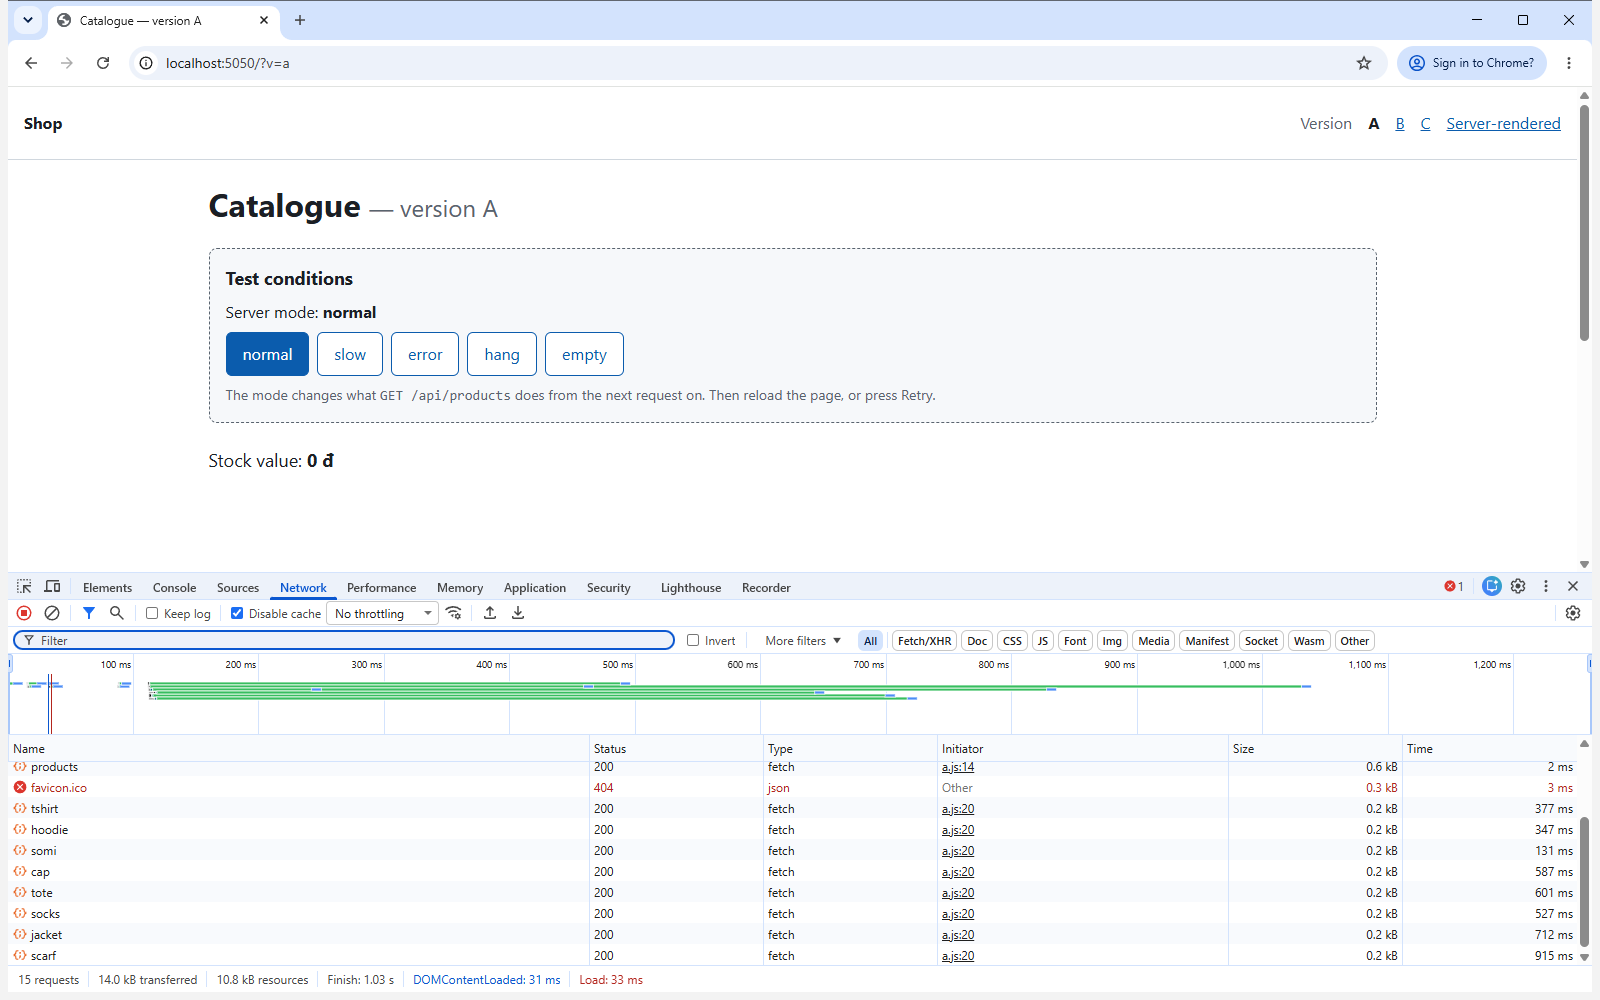
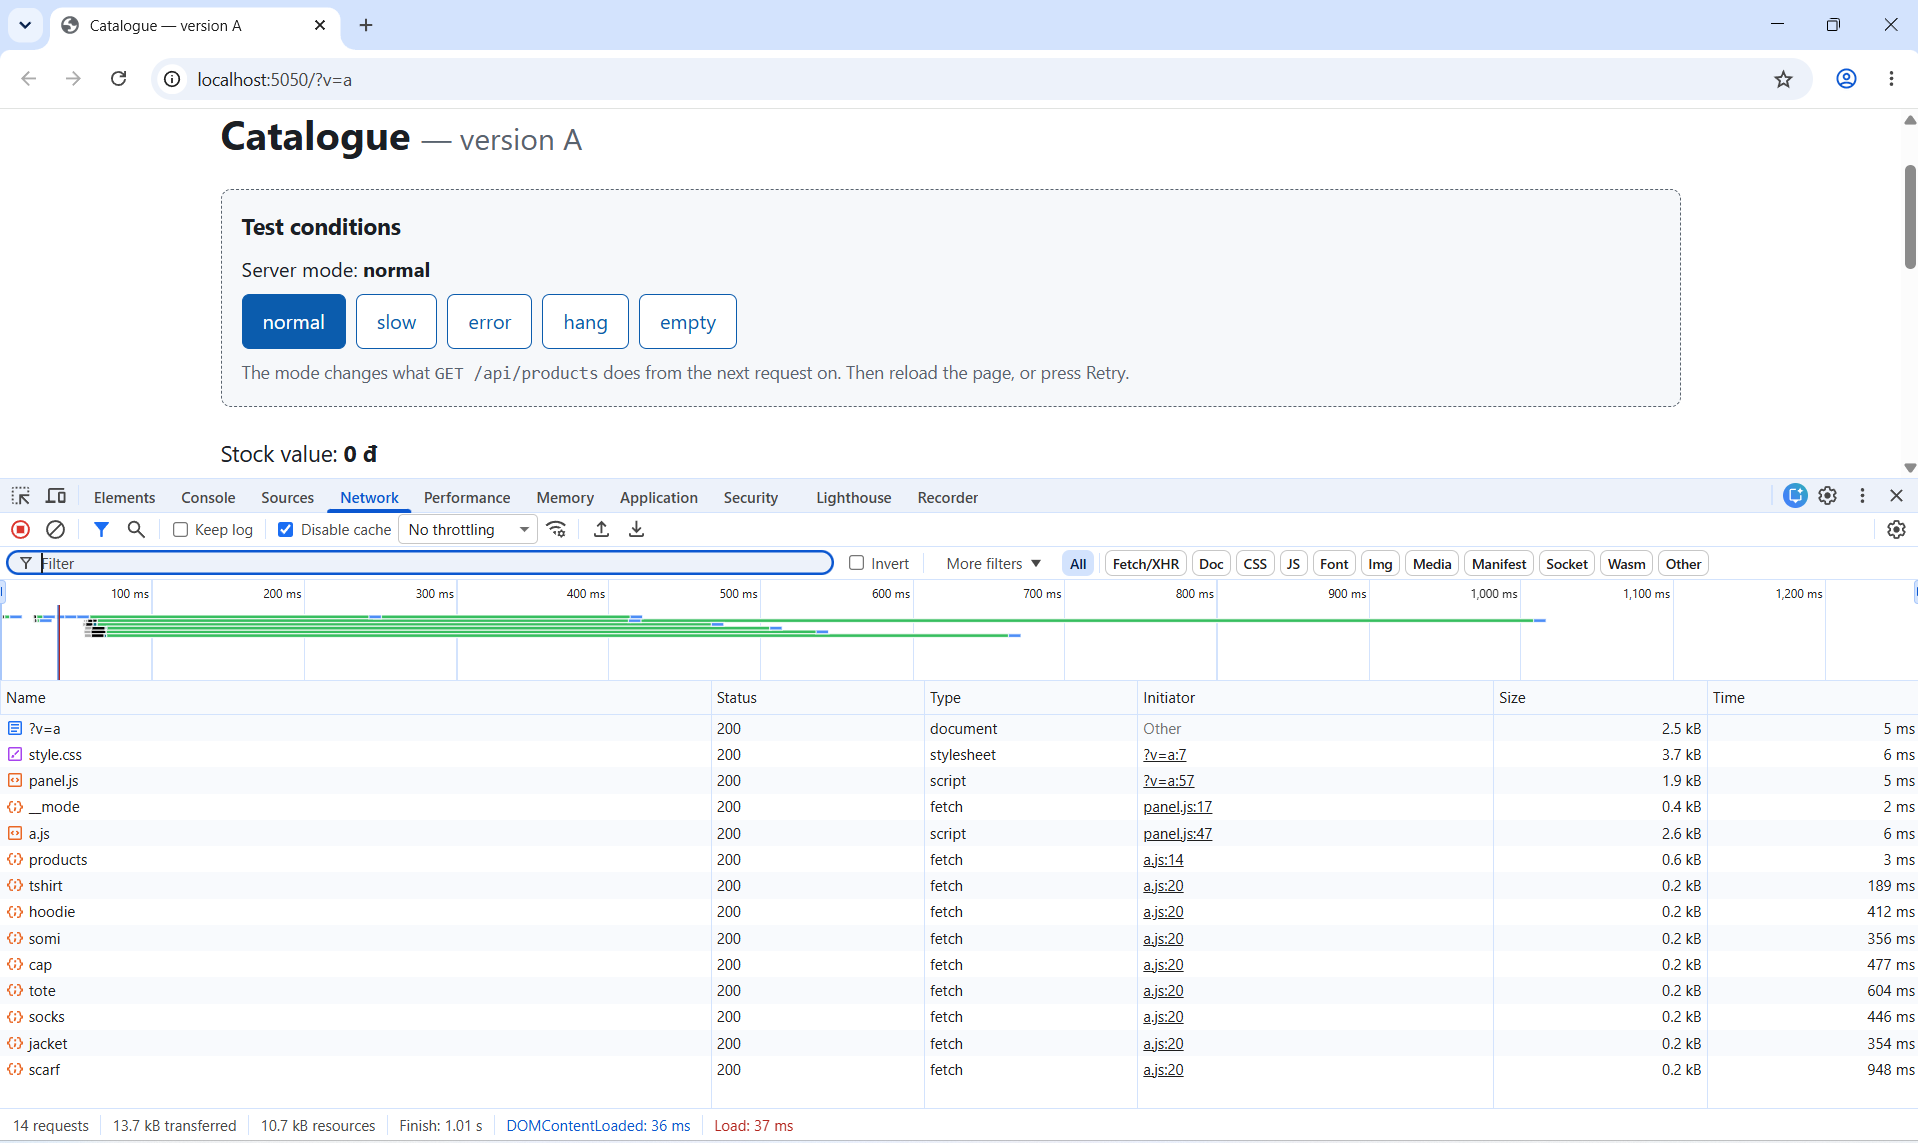
screenshots of the failing rows taken by hand; self-assessment

diff --git a/AI-LOG.md b/AI-LOG.md
@@ -5,12 +5,38 @@
 One entry per stage where an assistant did part of the work. Times are local
 (UTC+7) and match the commit each entry ends with.
 
-**Second pass.** A first attempt on 2026-10-29 (20:47–20:58) was discarded:
-its evidence screenshots had a DevTools-style panel injected into the page
-instead of real DevTools, and its log claimed a prediction change that the
-prediction commit does not contain. That folder is kept outside the
-submission. Everything below is the second pass, started from the untouched
-starter.
+The first entry is a first attempt I rejected; everything after it is the
+second pass, started again from the untouched starter.
+
+---
+
+## 2026-10-29 20:47–20:58 — First attempt with Antigravity (rejected)
+- **Tool:** Antigravity, with Claude Opus 4.6 (and Gemini 3.8 Flash for the
+  test runner), in a separate repository that is not this submission.
+- **Asked for:** the whole assignment — predictions, the table, screenshots,
+  review, fixes and docs.
+- **Kept:** nothing. Its two fixes happened to be the same as the ones in this
+  repository, but they were redone here from my own sentences and rerun.
+- **Changed:** —
+- **Rejected:** all of it, after I had it checked against the rubric with
+  Claude Code (next entry):
+  - `evidence/*.png` were not DevTools screenshots: the script injected a dark
+    "DevTools-style inspector" panel into the page with the verdict already
+    written in it, and `b-row8.png` was a terminal drawn as HTML. The rubric
+    asks for the page and the real DevTools panel or terminal.
+  - Its prediction section was edited after the results were in (Row 8 added
+    to B), and its log said "we updated the prediction", which the prediction
+    commit does not contain — a log contradicted by `git log`.
+  - Six commits in eleven minutes (20:47–20:58), the predictions 20 s after
+    the starter: the log's "by hand" steps could not have happened in that
+    time.
+  - Smaller: "13 requests" with 14 listed in CSR-SSR, a self-assessment
+    citing an amended commit and a "task-224 log" that did not exist, no
+    rerun of the table after the fixes.
+- **By hand:** decided to throw the attempt away and start again from the
+  starter rather than patch it; moved it to a backup folder outside the zip.
+- **Commit:** none in this repository (that attempt had its own repository,
+  last commit at 20:58).
 
 ---
 
@@ -21,8 +47,8 @@ starter.
 - **Kept:** the plan (one commit per stage, fixes touching only their version
   file), the prompts, and the predictions it drafted from reading the code.
 - **Changed:** —
-- **Rejected:** the first attempt as a whole (fake DevTools panels in
-  `evidence/`, a log contradicted by `git log`).
+- **Rejected:** the first attempt — its problems are listed in the entry
+  above; this review is where they were found.
 - **By hand:** chose to redo rather than patch; agreed to the four setup
   decisions (back up the first attempt, disclose it here, take the review
   from a fresh assistant, keep my git identity).
@@ -67,7 +93,8 @@ starter.
   captures were cut off (125 % display scaling) and showed `đ` garbled; both
   fixed and retaken. When I asked whether the screenshots would pass a strict
   grader, it judged `b-row6.png` alone shows no elapsed time and added
-  `b-row6-at32s.png` (`products` 504 after 30.01 s).
+  `b-row6-at32s.png` (`products` 504 after 30.01 s). These scripted
+  pictures were replaced on 2026-10-31 by ones I took myself (last entry).
 - **Rejected:** —
 - **By hand:** decided to let the assistant take the screenshots, asked for
   each image to be checked against the rubric, chose to keep the extra 32 s
@@ -86,7 +113,7 @@ starter.
 - **Kept:** its findings that match rows: A row 2 (`forEach(async …)`),
   B row 6 (`{ timeout: 5000 }`), C keep.
 - **Changed:** its claim that B hangs "forever" — row 6's run shows the
-  server's `504` at 30.01 s ends the wait (`b-row6-at32s.png`); the row
+  server's `504` at 30.01 s ends the wait (now `b-row6-at30s.png`); the row
   fails anyway.
 - **Rejected:** — no invented bug. Three claims about a failing stock
   request (A unhandled rejection, B cards + error message, C cards removed)
@@ -116,8 +143,7 @@ starter.
 - **Rejected:** —
 - **By hand:** read the diff (only `a.js`, 2 + / 5 −) and approved the commit.
 - **Commit:** `3385d84` fix A (the commit holds only `a.js`; this entry
-  rides with the rerun commit below). Written at 22:27, six minutes after
-  the fix, because a fix commit may touch nothing but its version file.
+  rides with the rerun commit below).
 
 ---
 
@@ -187,10 +213,9 @@ starter.
 - **Asked for:** a mark per rubric criterion with evidence, and every risk an
   AI grader could see, before writing `SELF_ASSESSMENT_REPORT.md`.
 - **Kept:** its mark of 90/100 and its list of risks. Acted on:
-  - VERDICTS: said plainly that Claude ran the rows and took the
-    screenshots, and that the prediction was drafted after the first
-    attempt had been reviewed (section 1 itself is unchanged since
-    `63951a7`); explained why `b-row6-at32s.png` is what proves row 6.
+  - VERDICTS: a note on who ran the rows and took the screenshots, and why
+    `b-row6-at32s.png` is what proves row 6 (section 1 itself unchanged
+    since `63951a7`). Both superseded on 2026-10-31 (last entry).
   - ASSISTANT-REVIEW: claims 3, 10 and 14 and two parts of claim 8 had been
     judged by reading. They now have runs (second set in
     `evidence/run-review-checks.txt`, the ORIGINAL source loaded from
@@ -209,8 +234,35 @@ starter.
   must be shown on the original) — both discarded, `b.js` restored byte for
   byte; view-source pages came out blank in several captures until the page
   was given longer and scrolled.
-- **Rejected:** retaking `b-row6.png` — it would mean putting the original
-  `b.js` back into the working tree after the fix; explained instead.
+- **Rejected:** retaking `b-row6.png` from the repo — it would mean putting
+  the original `b.js` back into the working tree after the fix. (Solved the
+  next day by serving the untouched starter copy instead — last entry.)
 - **By hand:** asked for the independent grading and for every reference to
   be checked; decided which risks to fix.
-- **Commit:** fixes after the grading (this entry).
+- **Commit:** `8abad8a` fixes after the grading.
+
+---
+
+## 2026-10-31 23:40–23:54 — My own screenshots of the failing rows
+- **Tool:** Claude Code, Claude Opus 5.5 — only to set things up and to check
+  the pictures; the screenshots are mine.
+- **Asked for:** serve the ORIGINAL files on :5050 (it started `server.mjs`
+  from the untouched starter copy, identical to `3676f2f`), open Chrome with
+  DevTools on Network for A and B, open VS Code on that copy, and tell me
+  exactly what each picture must show.
+- **Kept:** `a-row2.png`, `b-row6.png`, `b-row6-at30s.png` (the same page
+  load as `b-row6.png`, 30.01 s later) and `b-row8.png` (VS Code, Problems
+  panel and hover with TS2353 at Ln 17, Col 51) — all taken by me.
+- **Changed:** my first `a-row2` had an empty Network panel (DevTools opened
+  after the load) — reloaded in mode `normal`; the second hid
+  `Stock value: 0 đ` behind DevTools — scrolled the page. My first `b-row6`
+  was taken before reloading in `hang` (it showed `12.360.000 đ`) — retaken.
+  The assistant had added `// @ts-check` to the starter copy's `b.js` for the
+  VS Code picture, which also shifted the initiator to `b.js:17` in Chrome; it
+  removed the line and I typed it myself in VS Code, as the README says.
+- **Rejected:** a picture with `performance.now()` in the Console: it was
+  typed after the 30 s and showed a typo's `ReferenceError` — the 30.01 s in
+  `b-row6-at30s.png` shows the wait better.
+- **By hand:** all four screenshots, the reloads and mode switches, typing
+  `// @ts-check` in VS Code.
+- **Commit:** my screenshots and the self-assessment (this entry).

diff --git a/VERDICTS.md b/VERDICTS.md
@@ -35,19 +35,14 @@ Run on 2026-10-29, 22:26–22:28, against the untouched `server.mjs` on
 [`evidence/run-original.txt`](evidence/run-original.txt), which also says how
 the rows were run: a script drives the real page in Chromium and reads what it
 shows; row 8 is `tsc --project jsconfig.json` with `// @ts-check` added to one
-file at a time. Screenshots of the failing rows are real Chrome windows with
-DevTools on the Network panel, or a real PowerShell window (see `AI-LOG.md`
-for how they were taken).
+file at a time.
 
-Who ran what, plainly: I chose to let Claude Code run the rows and take the
-screenshots with scripts (they open a real Chrome with DevTools, or a real
-PowerShell window, and photograph it; nothing is drawn on top). I read every
-result and every image before it was committed. The prediction in section 1
-was also drafted by Claude, in a session that had just reviewed my discarded
-first attempt — which had already run this table — so it is a prediction from
-reading this code, but not one made without knowing the first attempt's
-results. Its wording "before the server was started" is true of this second
-pass only. Both are recorded in `AI-LOG.md`.
+The screenshots of the failing rows (`a-row2.png`, `b-row6.png`,
+`b-row6-at30s.png`, `b-row8.png`) I took myself on 2026-10-31, in my own Chrome
+with DevTools on the Network panel and in VS Code, against the original files
+(the server started from the untouched starter). Looking at each failing row
+by hand matched the scripted run. `b-row8-tsc.png` is the same row 8 from
+`tsc` in PowerShell, captured by `tools/row8-shot.ps1`.
 
 Note on row 7: in Chrome every page also shows a red
 `GET /favicon.ico 404 (Not Found)` line. That is the browser asking for a tab
@@ -80,7 +75,9 @@ like the `GET … 500` line the README mentions — not the version's code.
   ```
   `forEach` ignores the promises its async callback returns, so line 56 runs
   straight away with `total` still 0, and nothing writes the total again.
-- **Evidence:** [`evidence/a-row2.png`](evidence/a-row2.png).
+- **Evidence:** [`evidence/a-row2.png`](evidence/a-row2.png) — `normal`,
+  `Stock value: 0 đ`; Network: `products` and all 8 `/api/stock/…` requests
+  `200` (initiator `a.js:20`), their waterfall bars starting together.
 - **The one sentence for the assistant:** *"Row 2 fails: in mode normal the page shows Stock value: 0 đ instead of 12.360.000 đ because products.forEach(async …) on a.js lines 52–55 is not awaited, so line 56 writes the total while it is still 0 — wait for every stock response before writing the total, keep the eight /api/stock/… requests going out in parallel (no await inside a loop), and change nothing else."*
 
 ### Version B — verdict: **fix** (decided by row 6, also row 8)
@@ -105,18 +102,19 @@ like the `GET … 500` line the README mentions — not the version's code.
   `fetch` has no `timeout` option; the browser ignores the unknown key, so
   nothing ever aborts the request, and TypeScript rejects the key against
   `RequestInit`.
-- **Evidence:** [`evidence/b-row6.png`](evidence/b-row6.png) (at 8 s:
-  `Loading products…`, `products` pending). Supporting, from a second run:
-  [`evidence/b-row6-at32s.png`](evidence/b-row6-at32s.png) (at 32 s:
-  `products` `504` after `30.01 s`, only then the message and Retry).
-  `b-row6.png` alone shows no clock: the 8 s is the capture script's wait
-  after loading the page. The second picture is what proves the row: the
-  request's own Time column reads `30.01 s` and the message appears only with
-  the `504`, so nothing gave up at 5 s.
-  [`evidence/b-row8.png`](evidence/b-row8.png) (PowerShell: the first 17
-  lines of `b.js` with `// @ts-check`, then `tsc` with TS2353, exit code 2).
-  A VS Code screenshot was tried as well; a fresh VS Code instance opened on
-  its sign-in screen, so the terminal picture is the evidence.
+- **Evidence:** [`evidence/b-row6.png`](evidence/b-row6.png) — `hang`,
+  page `Loading products…` and `Stock value: —`, no Retry; Network:
+  `products` **(pending)**, initiator `b.js:16`.
+  [`evidence/b-row6-at30s.png`](evidence/b-row6-at30s.png) — the same page
+  load later (the other rows' times are identical: `?v=b` 15 ms, `b.js`
+  12 ms): `products` **504** after **30.01 s**, `Finish: 30.07 s`, and only
+  then `Could not load products.` + Retry — so nothing gave up at 5 s.
+  [`evidence/b-row8.png`](evidence/b-row8.png) — VS Code with the folder
+  open, `// @ts-check` on line 1 of `b.js`: `timeout` underlined, hover and
+  Problems panel `Object literal may only specify known properties, and
+  'timeout' does not exist in type 'RequestInit'. ts(2353) [Ln 17, Col 51]`.
+  Same result from `tsc` in PowerShell:
+  [`evidence/b-row8-tsc.png`](evidence/b-row8-tsc.png).
 - **The one sentence for the assistant:** *"Rows 6 and 8 fail: in mode hang the page still says Loading products… after 7 s, Network shows /api/products pending until the 504 at 30 s, and // @ts-check underlines timeout with TS2353, because fetch has no timeout option (b.js line 16) — make the products request give up after 5 seconds so the catch shows Could not load products. and Retry, keep the stock requests parallel, and change nothing else."*
 
 ### Version C — verdict: **keep** (every row passes)
@@ -155,7 +153,7 @@ like the `GET … 500` line the README mentions — not the version's code.
 | Version | Predicted | Failing rows | Verdict | Evidence |
 |---|---|---|---|---|
 | A | fix | 2 | **fix** | `evidence/a-row2.png` |
-| B | fix | 6, 8 | **fix** | `evidence/b-row6.png` (+ `b-row6-at32s.png`), `evidence/b-row8.png` |
+| B | fix | 6, 8 | **fix** | `evidence/b-row6.png` (+ `b-row6-at30s.png`), `evidence/b-row8.png` (+ `b-row8-tsc.png`) |
 | C | keep | — | **keep** | — |
 
 ## 4. After the fixes — the whole table again

diff --git a/SELF_ASSESSMENT_REPORT.md b/SELF_ASSESSMENT_REPORT.md
@@ -1,0 +1,26 @@
+# Self-assessment — IA#3
+
+Submitted by: 23120193 — Trần Kim Yến
+
+Total I claim: 100 / 100
+
+| Criterion | Max | I claim | Evidence |
+|---|---|---|---|
+| 1. Verdicts and evidence | 30 | 30 | `VERDICTS.md` §2: 9 rows × 3 versions, each PASS/FAIL with the number seen; FAILs A row 2, B rows 6 and 8 with the lines responsible (`a.js` 51–56, `b.js` 16), the verdict and its deciding row, and one sentence naming row, evidence and constraint (stock requests kept parallel). Predictions committed in `63951a7`, before the results in `9876e10`, and unchanged since. Screenshots I took myself of the page with DevTools / VS Code on the original code: `evidence/a-row2.png`, `evidence/b-row6.png` + `b-row6-at30s.png` (same load, `products` 504 after 30.01 s), `evidence/b-row8.png` (Problems: TS2353, Ln 17 Col 51) |
+| 2. Every version passes every row | 25 | 25 | `evidence/run-after-fixes.txt`: A, B, C pass rows 1–8 and empty; 8 stock requests start within 1–2 ms (no staircase); `tsc` with `// @ts-check` exits 0 on all three. Fixes `3385d84` (`a.js`) and `274e790` (`b.js`); C kept untouched |
+| 3. The assistant's review, checked | 15 | 15 | `ASSISTANT-REVIEW.md`: tool and model, a fresh isolated subagent, prompt and answer pasted unedited; all 15 claims checked by a row, the 404 fault run or the hang runs (`evidence/run-review-checks.txt`); the missed row (B row 8) and the overstatement ("forever" vs the 504 at 30.01 s) stated |
+| 4. CSR vs SSR | 10 | 10 | `CSR-SSR.md`: View source `evidence/csr-source-c.png` / `csr-source-ssr.png`; JavaScript off `csr-nojs-*.png`; requests counted 3 vs 15 (2 vs 14 without favicon) in `csr-requests-*.png`; `&lt;i&gt;` from `escapeHtml` (`server.mjs:81`) matched against the scarf's `innerHTML` when filled with `textContent` |
+| 5. AI-LOG.md | 10 | 10 | `AI-LOG.md`: one entry per use with time and commit, including the rejected first attempt; Changed/Rejected record real mistakes and what caught them — the review missed B row 8 (row 8), "forever" (row 6 at 30.01 s), a claim written before it was run (fault run), the row 4 harness timing, broken screenshots retaken |
+| 6. Scope and commit history | 10 | 10 | `3676f2f` untouched starter first; `63951a7` predictions before `9876e10` results; `3385d84` touches only `a.js`, `274e790` only `b.js`; `git diff 3676f2f HEAD` changes no starter file other than `public/versions/a.js` and `b.js` (new files only: docs, `evidence/`, `tools/`) |
+
+## What I did not manage
+
+The 27 rows were measured by a script (`tools/harness.js`) that drives the real
+page; I looked at the failing rows myself in Chrome and VS Code when I took the
+screenshots, and they matched. A VS Code picture taken by a script did not work
+(a fresh VS Code opened on its sign-in screen), so I took that one by hand.
+
+## What I would do differently
+
+Take the screenshots by hand from the start, with DevTools open before the
+page loads, instead of first trying to have them captured by a script.

diff --git a/ASSISTANT-REVIEW.md b/ASSISTANT-REVIEW.md
@@ -110,7 +110,7 @@ judged by reading only.
 | 5 | A | Non-2xx → message + Retry; Retry hides it and starts again | Row 5 | **Confirmed.** |
 | 6 | A | `textContent`, `data-id`, price format correct | Rows 1, 3 | **Confirmed.** API order, `180.000 đ`, `Scarf <i>limited</i>` with 0 `<i>` |
 | 7 | A | Empty list → `No products yet.`, `0 đ` "correct only by accident" | Empty row | **Confirmed.** |
-| 8 | B | Line 16: `{ timeout: 5000 }` does nothing — a hanging API leaves `Loading products…` and no Retry **forever**; a slow API (> 5 s) is waited out | Row 6 (+ row 8) | **Confirmed, one overstatement.** Still `Loading products…` at 5.5, 7, 15 and 25 s; `products` pending (`evidence/b-row6.png`). Not *forever* with this server: its `504` at 30.01 s lands in `catch` and the message + Retry appear (`evidence/b-row6-at32s.png`). The row fails all the same — it asks for the message after about 5 s. "A slow API (> 5 s) is waited out": **real** — hang run with `/api/products` answering after 7 s: `Loading products…` at 5.5 s, cards at 8.5 s. "`loading` stays `true`": internal state with nothing to see on screen — **not checked by a run** |
+| 8 | B | Line 16: `{ timeout: 5000 }` does nothing — a hanging API leaves `Loading products…` and no Retry **forever**; a slow API (> 5 s) is waited out | Row 6 (+ row 8) | **Confirmed, one overstatement.** Still `Loading products…` at 5.5, 7, 15 and 25 s; `products` pending (`evidence/b-row6.png`). Not *forever* with this server: its `504` at 30.01 s lands in `catch` and the message + Retry appear (`evidence/b-row6-at30s.png`). The row fails all the same — it asks for the message after about 5 s. "A slow API (> 5 s) is waited out": **real** — hang run with `/api/products` answering after 7 s: `Loading products…` at 5.5 s, cards at 8.5 s. "`loading` stays `true`": internal state with nothing to see on screen — **not checked by a run** |
 | 9 | B | Lines 51, 54–56: a failed stock request leaves the cards on screen while the status says `Could not load products.` and Retry shows; stock stays `—` | Fault run | **Real, but no row shows it.** Fault run: 8 cards, `Could not load products.`, Retry shown, `—`. The brief does not say what a stock failure should look like |
 | 10 | B | Line 22: no timeout on stock requests; `#stock-value` stays `—` with no message (minor) | Hang run | **Real, no row fails.** `/api/stock/cap` never answering: 8 cards, `—`, no message at 2 s and 8 s |
 | 11 | B | Cards, `textContent`, order, empty list, parallel stock and the total are correct; list cleared at line 42 | Rows 1–5, empty, parallel check | **Confirmed.** `12.360.000 đ`, stock requests started within 1 ms |

diff --git a/tools/README.md b/tools/README.md
@@ -11,9 +11,10 @@ them is loaded by the page; nothing in `public/` uses them.
 |---|---|---|
 | `harness.js` | rows 1–7, empty, parallel check — pasted into the page at `http://localhost:5050/`; drives `/?v=<letter>` in an iframe and switches modes with `POST /__mode` like the Test conditions buttons. The `until`/`snap` guard and the 1.5 s row-4 wait were added on 2026-10-30 (see AI-LOG) | `evidence/run-original.txt`, `evidence/run-after-fixes.txt` |
 | `fault-stock.js` | forces `/api/stock/cap` to answer 404 inside the page's `fetch` | `evidence/run-review-checks.txt` (first set) |
-| `shot.ps1` + `cdp-nav.mjs` | opens a separate Chrome (throwaway profile) with DevTools on Network, loads a URL, photographs the window; `-NoJs` blocks JavaScript, `-ScrollY` scrolls a view-source page | `a-row2.png`, `b-row6*.png`, `csr-*.png` |
+| `shot.ps1` + `cdp-nav.mjs` | opens a separate Chrome (throwaway profile) with DevTools on Network, loads a URL, photographs the window; `-NoJs` blocks JavaScript, `-ScrollY` scrolls a view-source page | `csr-*.png` (its first `a-row2` / `b-row6` pictures were replaced by my own on 2026-10-31) |
 | `csr-shots.ps1`, `source-shots.ps1` | run `shot.ps1` for the CSR vs SSR pictures | `csr-requests-*.png`, `csr-nojs-*.png`, `csr-source-*.png` |
-| `row8-shot.ps1` + `row8-run.ps1` | adds `// @ts-check` to `b.js`, runs `tsc` in a real PowerShell window, photographs it, restores `b.js` | `b-row8.png` |
+| `row8-shot.ps1` + `row8-run.ps1` | adds `// @ts-check` to `b.js`, runs `tsc` in a real PowerShell window, photographs it, restores `b.js` | `b-row8-tsc.png` |
+| `open-for-user.ps1` | opens Chrome (A in `normal`, B in `hang`, DevTools on Network) and VS Code on the untouched starter copy, for the screenshots I took by hand — it captures nothing | `a-row2.png`, `b-row6*.png`, `b-row8.png` (taken by me) |
 | `row8-vscode.ps1` | the attempted VS Code version of row 8 — abandoned (sign-in screen); kept for honesty | none used |
 
 The hang runs in the second set of `run-review-checks.txt` were typed into the
